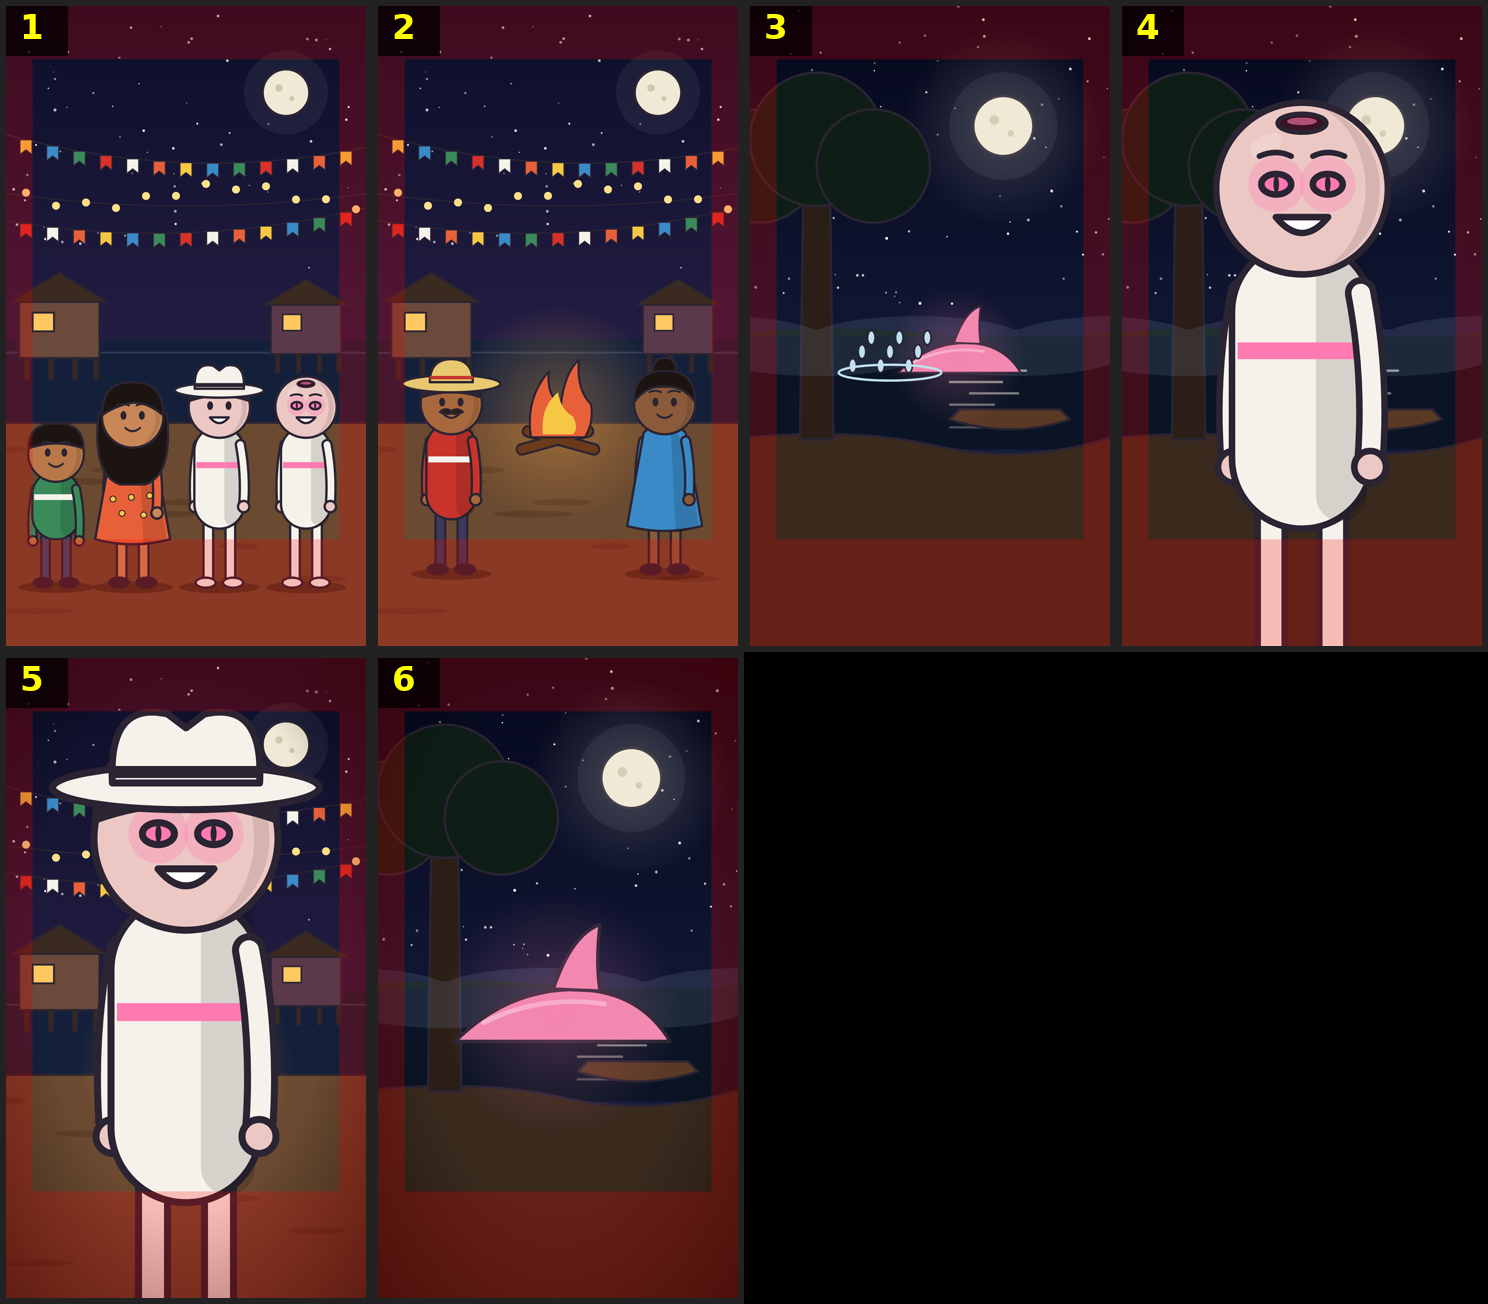
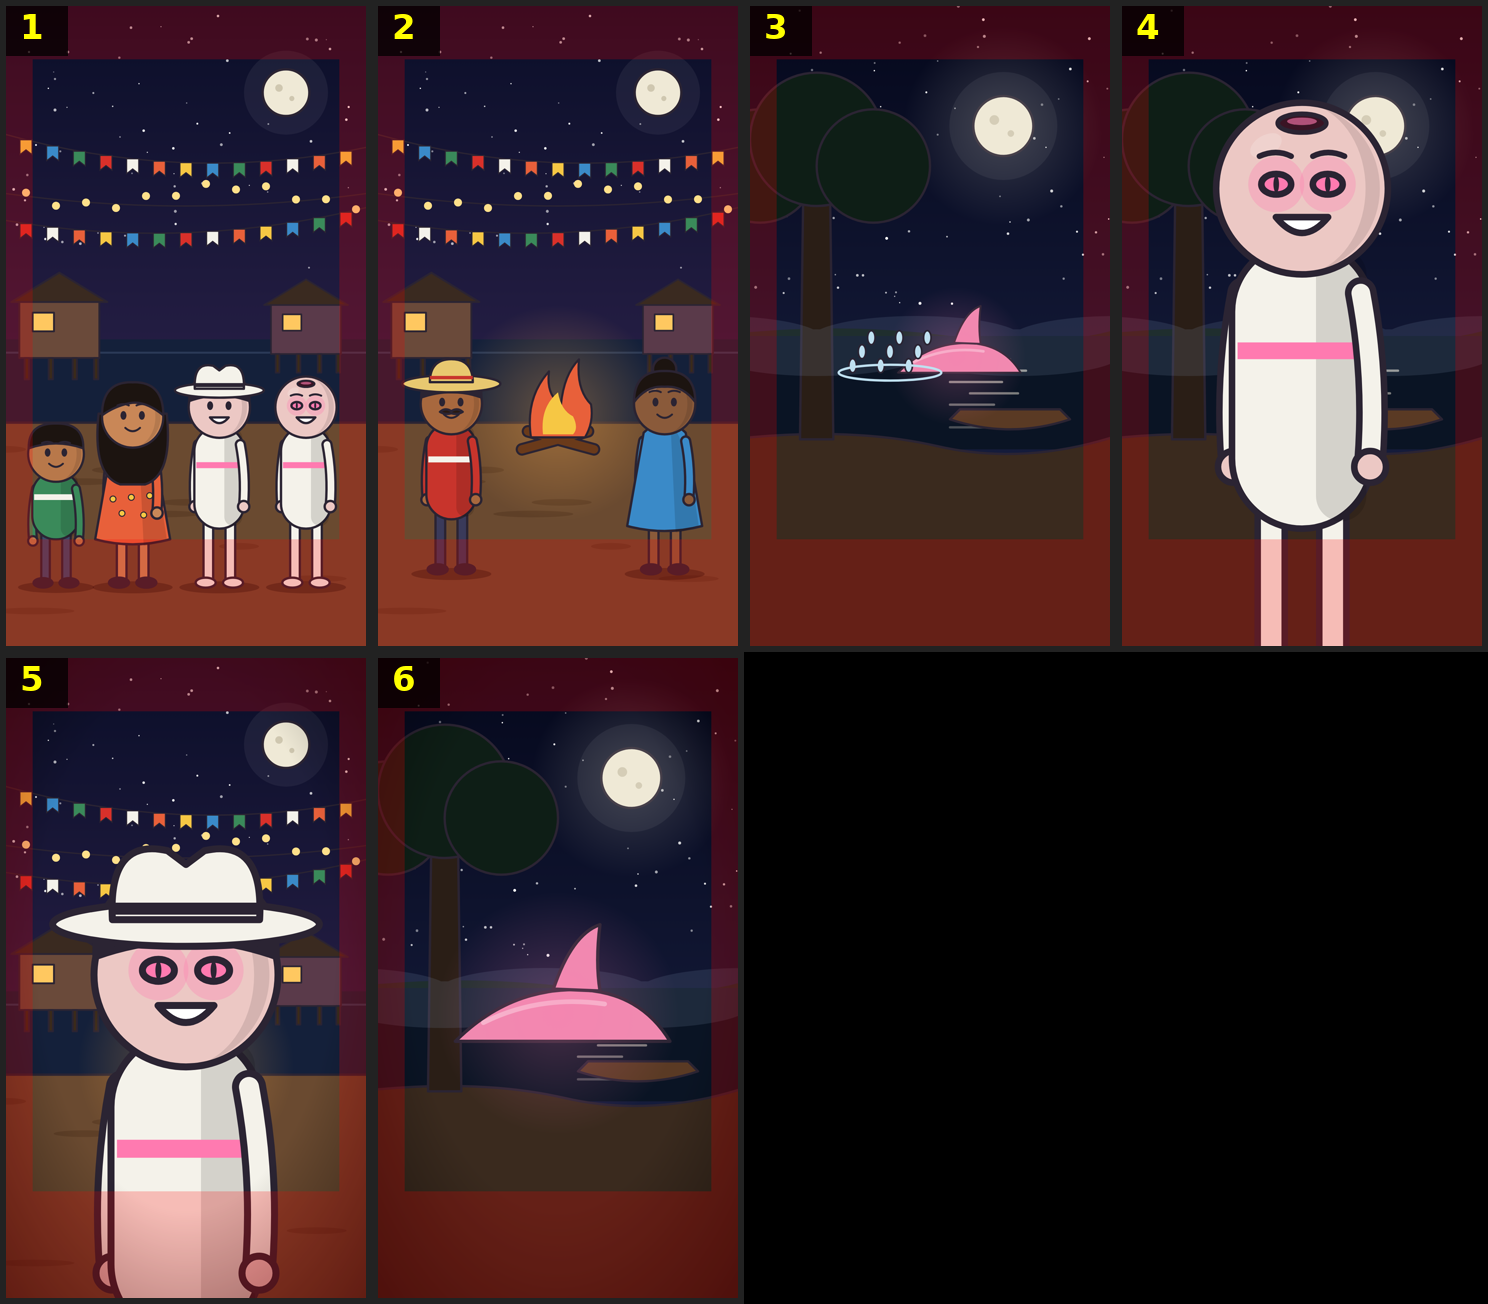
Lenda do Boto: capas
Claude-Session: https://claude.ai/code/session_01MUXnwG6fyaHSeYanEaGS8q

Changed region(s): [[0.0309, 0.5215, 0.2164, 1.0]]

diff --git a/videos/lenda-boto/world.ts b/videos/lenda-boto/world.ts
@@ -61,6 +61,6 @@ defineVisuals({
   'test-party': { bg: '#0a0e28', html: () => svg(`${btParty()}${btChar('tio', 220, 1700, 1.0)}${btChar('tia', 860, 1700, 1.0)}`), anim() {} },
   'test-river': { bg: '#05081c', html: () => svg(`${btRiver()}${btFin('fin', 620, 1100, 0.8)}${btSplash('spl', 420, 1100, 0.7)}`), anim() {} },
   'test-hole': { bg: '#05081c', html: () => svg(`${btRiver()}${btChar('botoh', 540, 1250 + 507 * 2.8 - 620, 2.8)}`), anim(tl, s) { bzFace(tl, '#sc-test-hole #botoh', s.t0, 'glow', 'grin'); } },
-  'cover-a': { bg: '#0a0e28', html: () => svg(`${btParty()}${btChar('boto', 540, 2150, 3.0)}${bzVignette(0.5)}`), anim(tl, s) { bzFace(tl, '#sc-cover-a #boto', s.t0, 'glow', 'grin'); } },
+  'cover-a': { bg: '#0a0e28', html: () => svg(`${btParty()}${btChar('boto', 540, 2560, 3.0)}${bzVignette(0.5)}`), anim(tl, s) { bzFace(tl, '#sc-cover-a #boto', s.t0, 'glow', 'grin'); } },
   'cover-b': { bg: '#05081c', html: () => svg(`${btRiver()}${btFin('fin', 540, 1150, 1.4)}${bzVignette(0.5)}`), anim() {} },
 });
